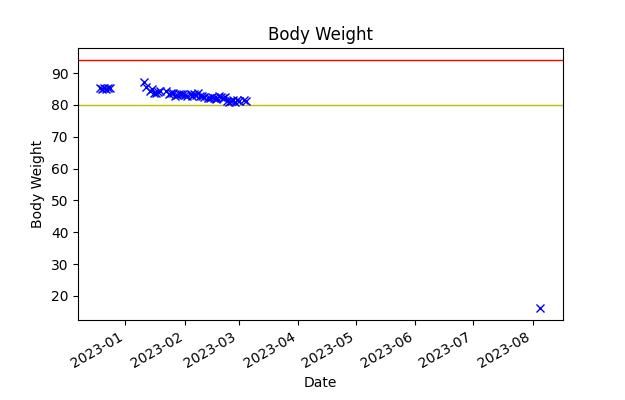
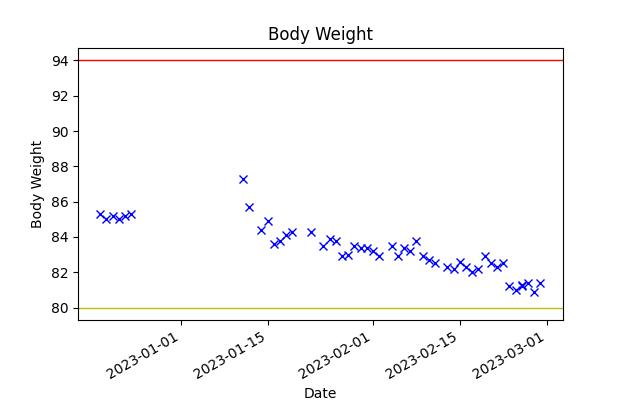
Added confirmation box to the deletion request of a body weight record.

diff --git a/history.py b/history.py
@@ -204,7 +204,7 @@ class CalorieHistoryFrame(tk.Frame):
         # Get the last record for the consumed meals.
         last_history_datetime = self.history_db_con.execute('SELECT * FROM History ORDER BY id DESC LIMIT 1').fetchone()[1]
         last_calorie_expended_datetime = self.google_fit_if.return_records(num_records=1)[0][3]
-        print(f"{last_history_datetime} {last_calorie_expended_datetime}")
+        # print(f"{last_history_datetime} {last_calorie_expended_datetime}")
 
         # Only update the history information if it has changed. See if it changed by checking he last records
         # against what was previously processed.
@@ -213,8 +213,8 @@ class CalorieHistoryFrame(tk.Frame):
 
         # Only update the history information if it has changed. See if it changed by checking he last records
         # against what was previously processed.
-        print(f"Previous data {last_history_datetime} {self.prev_history_datetime}"
-              f"{last_calorie_expended_datetime} {self.prev_expended_datetime}")
+        # print(f"Previous data {last_history_datetime} {self.prev_history_datetime}"
+        #      f"{last_calorie_expended_datetime} {self.prev_expended_datetime}")
 
         if last_calorie_expended_datetime != self.prev_expended_datetime or \
                 last_history_datetime != self.prev_history_datetime:
@@ -305,14 +305,14 @@ class CalorieHistoryFrame(tk.Frame):
 
                     # Translate date to epoch seconds
                     epoch_time = time.mktime(time.strptime(i[0], "%Y-%m-%d"))
-                    print(epoch_time)
+                    # print(epoch_time)
                     # Update database, which isn't used in the GUI, but can be accessed for additional
                     # analysis or graphing.
                     self.calories_in_out_db.execute(
                         "INSERT INTO CaloriesInOut (rec_date, epoch_time, CaloriesIn, CaloriesOut) values(?, ?, ?, ?)"
                         , [i[0], epoch_time, i[2], i[3]])
 
-                    print(f"{self.calories_in_out_db} {i[0]} {i[1]} {i[2]} {i[3]}")
+                    # print(f"{self.calories_in_out_db} {i[0]} {i[1]} {i[2]} {i[3]}")
 
                 self.calories_in_out_db.commit()
 

diff --git a/body_weight.py b/body_weight.py
@@ -1,10 +1,11 @@
 import tkinter as tk
 from tkinter import ttk
+from tkinter import messagebox
 
 from datetime import datetime
 import pathlib
 from PIL import Image, ImageTk
-import matplotlib.dates as dates
+import bathroom_scale_if
 
 # importing the required module
 import matplotlib
@@ -13,9 +14,6 @@ import matplotlib.pyplot as plt
 import logging
 
 logger = logging.getLogger("scaleLogger")
-
-import bathroom_scale_if
-
 mod_path = pathlib.Path(__file__).parent
 
 # Need to use this if no interactive window.
@@ -134,8 +132,15 @@ class WeightHistoryFrame(tk.Frame):
             # print(self.weight)
             # print(db_id, date, user, weight)
 
+            # Confirm the user wants to delete the record.
+            confirm = messagebox.askyesno(title='Confirm Deletion',
+                                          message=f'Delete Selected Record {date[:10]} {weight}kg?')
+
             # Delete the selected item from the database
-            self.bathroom_scale_if.delete_entry(db_id)
+            if confirm == True:
+                self.bathroom_scale_if.delete_entry(db_id)
+            else:
+                print("Did not delete recourd")
 
     # Create the tree view object.
     def create_weight_history_tree(self, history_tree_frame):
@@ -160,7 +165,7 @@ class WeightHistoryFrame(tk.Frame):
 
         self.history_tree.heading('Date', text="Date")
         self.history_tree.heading('User', text="User")
-        self.history_tree.heading('Weight', text="'Weight")
+        self.history_tree.heading('Weight', text="Weight")
 
         self.history_tree.grid(column=0, row=0)
         sb = ttk.Scrollbar(history_tree_frame, orient=tk.VERTICAL)
@@ -177,9 +182,9 @@ class WeightHistoryFrame(tk.Frame):
 
         # print(weight_history)
 
-        # Plot the last 2 weeks
+        # Plot the last 6 months
         if self.last_weight_history is None or self.last_weight_history != weight_history:
-            weight_plotter = WeightHistoryPlotter(90)
+            weight_plotter = WeightHistoryPlotter(180)
             weight_plotter.plot_save(weight_history, 94, 80, 'weight_history_graph.jpg')
 
         self.history_tree.tag_configure('odd', font=("fixedsys", 12), background='light grey')
